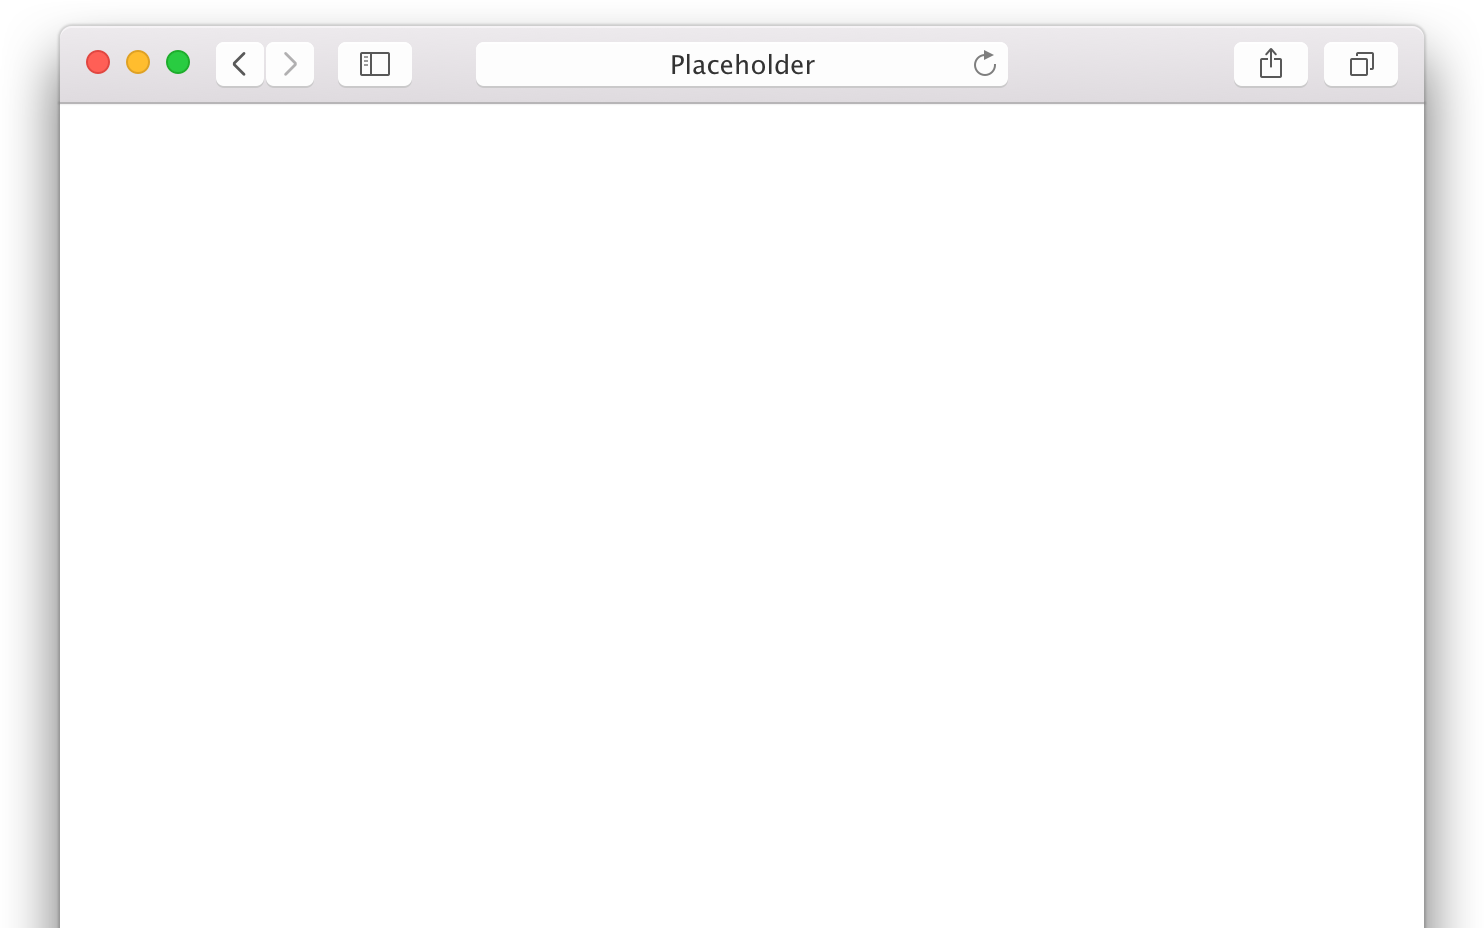
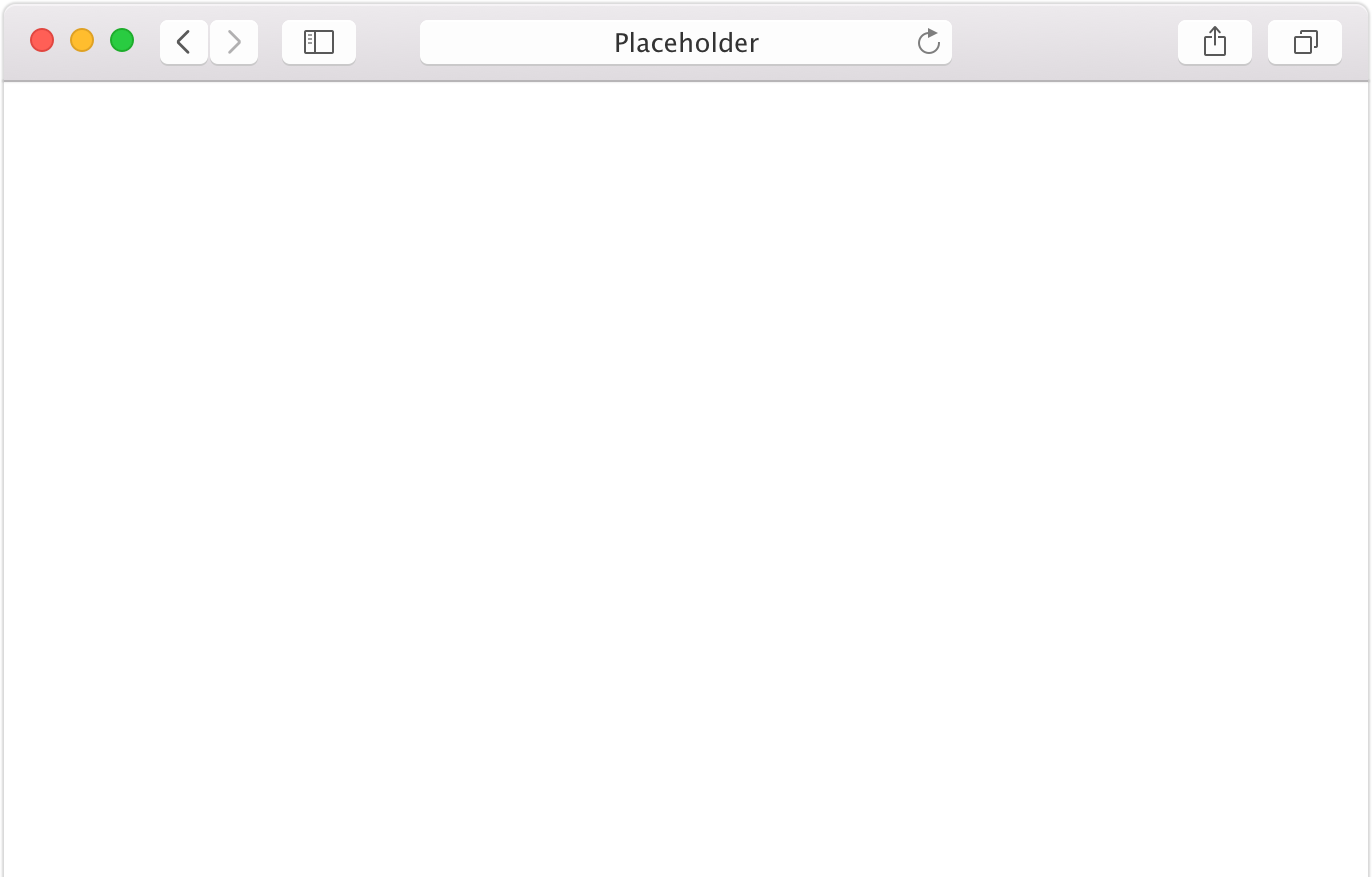
fixing up the shadows on the iPad and browser windows

Changed region(s): [[0.0, 0.0, 1.0, 1.0]]

diff --git a/less/app.less b/less/app.less
@@ -215,6 +215,11 @@ p {
   }
 }
 
+.section--on-top {
+  z-index: 99;
+  position: relative;
+}
+
 
 .sub-section {}
 
@@ -265,10 +270,12 @@ p {
   padding-bottom: 4em;
 }
 
+// a section with an iPad image
+
 .my-work-item--with-ipad {
 
-  padding-top: 10em;
-  padding-bottom: 10em;
+  padding-top: 3em;
+  padding-bottom: 3em;
   
   max-width: 100%;
   margin-left: @margin-left;
@@ -277,58 +284,23 @@ p {
   @media screen and (min-width: @screen-large) {
     max-width: @screen-large;
     margin: auto; 
+    padding-top: 8em;
+    padding-bottom: 10em;
   }
-}
-
-.my-work-item--with-desktop-browser {
-
-  padding-top: 10em;
-  padding-bottom: 0;
-  
-  max-width: 100%;
-  margin-left: @margin-left;
-  margin-right: @margin-right;
-
-  @media screen and (min-width: @screen-large) {
-    max-width: @screen-large;
-    margin: auto; 
-  }
-}
-
-.my-work-item__image--browser-centred {
-  max-width: 60em;
-  display: block; 
-  margin-top: 4em;
-  margin-left: -2.5em;
-}
-
-.my-work-item__image {
-  display: inline-block;
-  padding-top: 1em;
-  vertical-align: top;
-  max-width: 15em;
-}
-
-.my-work-item--with-full-width-image {
-  padding: 0;
-
-  width: 100%;
-  height: 50em;
-
-  background: 
-    linear-gradient(
-      rgba(0, 0, 0, 0.7),
-      rgba(0, 0, 0, 0.7)
-    ),
-  url(/images/rubicon_design_workshop_2.jpg);
-    background-size: cover;
-    background-repeat: no-repeat;
-
 }
 
 .my-work-item__image--ipad {
+  width: 100%;
   max-width: 24em;
   display: inline-block; 
+
+  -webkit-filter: drop-shadow(3px 3px 5px @colour-shadow);
+  filter: drop-shadow(3px 3px 5px @colour-shadow);
+
+  @media screen and (min-width: @screen-large) {
+    -webkit-filter: drop-shadow(10px 15px 20px @colour-shadow);
+    filter: drop-shadow(10px 15px 20px @colour-shadow);
+  }
 }
 
 .my-work-item__description--ipad {
@@ -343,8 +315,11 @@ p {
   }
 }
 
-.my-work-item__description--full-width-image {
-  padding-top: 10em;
+// a section with a desktop browser
+
+.my-work-item--with-desktop-browser {
+
+  padding-top: 3em;
   padding-bottom: 0;
   
   max-width: 100%;
@@ -354,10 +329,72 @@ p {
   @media screen and (min-width: @screen-large) {
     max-width: @screen-large;
     margin: auto; 
+    padding-top: 8em;
   }
 }
 
+.my-work-item__image--browser-centred {
+  width: 100%;
+  max-width: 65em;
+  display: block; 
+  margin-top: 1em;
 
+  -webkit-filter: drop-shadow(3px 3px 5px @colour-shadow);
+  filter: drop-shadow(3px 3px 5px @colour-shadow);
+
+  @media screen and (min-width: @screen-large) {
+    margin-top: 4em;
+    -webkit-filter: drop-shadow(0px 10px 20px @colour-shadow);
+    filter: drop-shadow(0px 10px 20px @colour-shadow);
+  }
+}
+
+.my-work-item__image {
+  display: inline-block;
+  padding-top: 1em;
+  vertical-align: top;
+  max-width: 15em;
+}
+
+// a section with a full width image
+
+.my-work-item--with-full-width-image {
+  padding: 0;
+
+  width: 100%;
+  height: 40em;
+
+  background: 
+    linear-gradient(
+      rgba(0, 0, 0, 0.7),
+      rgba(0, 0, 0, 0.7)
+    ),
+  url(/images/rubicon_design_workshop_2.jpg);
+    background-size: cover;
+    background-repeat: no-repeat;
+
+  @media screen and (min-width: @screen-large) {
+    height: 50em;
+  }
+
+}
+
+
+
+.my-work-item__description--full-width-image {
+  padding-top: 3em;
+  padding-bottom: 0;
+  
+  max-width: 100%;
+  margin-left: @margin-left;
+  margin-right: @margin-right;
+
+  @media screen and (min-width: @screen-large) {
+    max-width: @screen-large;
+    margin: auto; 
+    padding-top: 8em;
+  }
+}
 
 
 // --- FOOTER

diff --git a/css/app.css b/css/app.css
@@ -181,6 +181,10 @@ p {
     padding-bottom: 4em;
   }
 }
+.section--on-top {
+  z-index: 99;
+  position: relative;
+}
 .sub-section__content {
   padding-top: 1em;
   padding-bottom: 0em;
@@ -211,8 +215,8 @@ p {
   padding-bottom: 4em;
 }
 .my-work-item--with-ipad {
-  padding-top: 10em;
-  padding-bottom: 10em;
+  padding-top: 3em;
+  padding-bottom: 3em;
   max-width: 100%;
   margin-left: 5%;
   margin-right: 5%;
@@ -221,44 +225,22 @@ p {
   .my-work-item--with-ipad {
     max-width: 900px;
     margin: auto;
+    padding-top: 8em;
+    padding-bottom: 10em;
   }
-}
-.my-work-item--with-desktop-browser {
-  padding-top: 10em;
-  padding-bottom: 0;
-  max-width: 100%;
-  margin-left: 5%;
-  margin-right: 5%;
-}
-@media screen and (min-width: 900px) {
-  .my-work-item--with-desktop-browser {
-    max-width: 900px;
-    margin: auto;
-  }
-}
-.my-work-item__image--browser-centred {
-  max-width: 60em;
-  display: block;
-  margin-top: 4em;
-  margin-left: -2.5em;
-}
-.my-work-item__image {
-  display: inline-block;
-  padding-top: 1em;
-  vertical-align: top;
-  max-width: 15em;
-}
-.my-work-item--with-full-width-image {
-  padding: 0;
-  width: 100%;
-  height: 50em;
-  background: linear-gradient(rgba(0, 0, 0, 0.7), rgba(0, 0, 0, 0.7)), url(/images/rubicon_design_workshop_2.jpg);
-  background-size: cover;
-  background-repeat: no-repeat;
 }
 .my-work-item__image--ipad {
+  width: 100%;
   max-width: 24em;
   display: inline-block;
+  -webkit-filter: drop-shadow(3px 3px 5px rgba(0, 0, 0, 0.3));
+  filter: drop-shadow(3px 3px 5px rgba(0, 0, 0, 0.3));
+}
+@media screen and (min-width: 900px) {
+  .my-work-item__image--ipad {
+    -webkit-filter: drop-shadow(10px 15px 20px rgba(0, 0, 0, 0.3));
+    filter: drop-shadow(10px 15px 20px rgba(0, 0, 0, 0.3));
+  }
 }
 .my-work-item__description--ipad {
   display: inline-block;
@@ -272,8 +254,56 @@ p {
     padding-top: 0;
   }
 }
+.my-work-item--with-desktop-browser {
+  padding-top: 3em;
+  padding-bottom: 0;
+  max-width: 100%;
+  margin-left: 5%;
+  margin-right: 5%;
+}
+@media screen and (min-width: 900px) {
+  .my-work-item--with-desktop-browser {
+    max-width: 900px;
+    margin: auto;
+    padding-top: 8em;
+  }
+}
+.my-work-item__image--browser-centred {
+  width: 100%;
+  max-width: 65em;
+  display: block;
+  margin-top: 1em;
+  -webkit-filter: drop-shadow(3px 3px 5px rgba(0, 0, 0, 0.3));
+  filter: drop-shadow(3px 3px 5px rgba(0, 0, 0, 0.3));
+}
+@media screen and (min-width: 900px) {
+  .my-work-item__image--browser-centred {
+    margin-top: 4em;
+    -webkit-filter: drop-shadow(0px 10px 20px rgba(0, 0, 0, 0.3));
+    filter: drop-shadow(0px 10px 20px rgba(0, 0, 0, 0.3));
+  }
+}
+.my-work-item__image {
+  display: inline-block;
+  padding-top: 1em;
+  vertical-align: top;
+  max-width: 15em;
+}
+.my-work-item--with-full-width-image {
+  padding: 0;
+  width: 100%;
+  height: 40em;
+  background: linear-gradient(rgba(0, 0, 0, 0.7), rgba(0, 0, 0, 0.7)), url(/images/rubicon_design_workshop_2.jpg);
+  background-size: cover;
+  background-repeat: no-repeat;
+}
+@media screen and (min-width: 900px) {
+  .my-work-item--with-full-width-image {
+    height: 50em;
+  }
+}
 .my-work-item__description--full-width-image {
-  padding-top: 10em;
+  padding-top: 3em;
   padding-bottom: 0;
   max-width: 100%;
   margin-left: 5%;
@@ -283,6 +313,7 @@ p {
   .my-work-item__description--full-width-image {
     max-width: 900px;
     margin: auto;
+    padding-top: 8em;
   }
 }
 .footer {

diff --git a/vedrans_design_work.html b/vedrans_design_work.html
@@ -91,12 +91,12 @@
 		</div>
 
 		<!-- SEEK REGISTRATION -->
-		<div class="section section--medium">
+		<div class="section section--medium section--on-top">
 			<div class="my-work-item my-work-item--with-desktop-browser">
 					<h2 class="section-heading">Design of a repsonsive registration form</h2>
 
 					<div class="my-work-item__description">
-					<p>I designed the registrat</p>
+					<p>I designed the registration form for employers using the Seek platform.</p>
 					<p>The new design allowed registration on mobile devices for the first time, simplifed and sped up the process and resulted in X% in form completion rate</p>
 					<p><a class ="link link--on-light-bg" href="seek_registration_form.html">Read case study</a></p>
 					</div>

diff --git a/less/variables.less b/less/variables.less
@@ -10,6 +10,7 @@
 @colour-medium-gray: #E0E0E0;
 @colour-light-gray: #F7F7F7;
 @colour-link-blue: #0066CC;
+@colour-shadow: rgba(0, 0, 0, 0.3);
 
 @margin-left: 5%;
 @margin-right: 5%;
